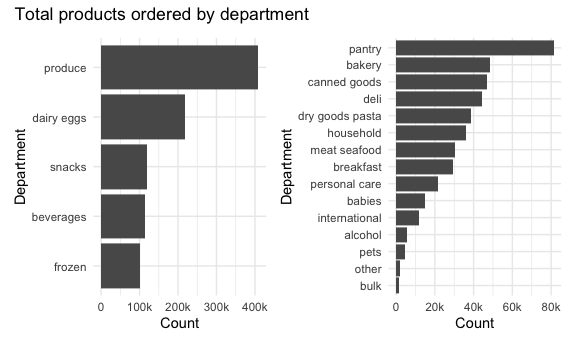
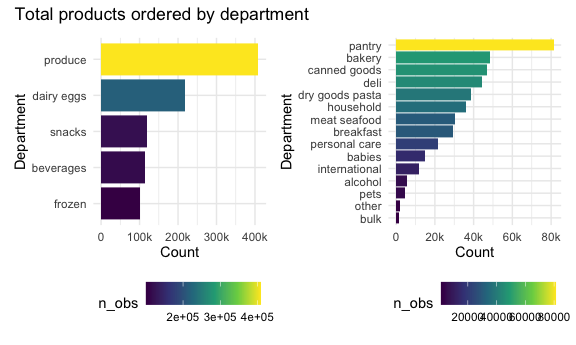
Problem 3: updating tidied data

diff --git a/p8105_hw3_mtr2143.md b/p8105_hw3_mtr2143.md
@@ -42,12 +42,16 @@ dept_products_total <-
     n_obs = n()
   ) %>% 
   arrange(desc(n_obs)) %>% 
-  filter(department != 'missing')
+  filter(department != 'missing') %>% 
+  mutate(
+    over_100k = ifelse(n_obs > 100000, 1, 0)
+  )
+
 
 dept_less_100k_plot <- 
   dept_products_total %>% 
   filter(n_obs < 100000) %>% 
-  ggplot(aes(x = reorder(department, n_obs), y = n_obs)) +
+  ggplot(aes(x = reorder(department, n_obs), y = n_obs, fill = n_obs)) +
     geom_bar(stat = "identity") + 
     xlab("Department") + ylab("Count") +
     scale_y_continuous(breaks = c(0, 20000, 40000, 60000, 80000),
@@ -57,7 +61,7 @@ dept_less_100k_plot <-
 dept_ge_100k_plot <-
   dept_products_total %>% 
   filter(n_obs >= 100000) %>% 
-  ggplot(aes(x = reorder(department, n_obs), y = n_obs)) +
+  ggplot(aes(x = reorder(department, n_obs), y = n_obs, fill = n_obs)) +
     geom_bar(stat = "identity") + 
     xlab("Department") + ylab("Count") +
     scale_y_continuous(breaks = c(0, 100000, 200000, 300000, 400000),
@@ -389,6 +393,18 @@ activity <-
 names(activity) <-
   names(activity) %>% 
   str_replace_all("activity", "min")
+
+activity <-
+    activity %>% 
+    pivot_longer(
+      cols = starts_with("min_"), 
+      names_to = "min", 
+      names_prefix = "min_",
+      values_to = "activity"
+    ) %>% 
+    mutate(
+      min = as.numeric(min)
+    )
 ```
 
 Description of data goes here
@@ -398,59 +414,59 @@ Description of data goes here
 ``` r
 tot_act_per_day <-
   activity %>% 
-    mutate(
-      total_act = rowSums(across(str_subset(colnames(activity), "^min")))
-    ) %>% 
-    select(day_id, day, total_act) 
-
+  group_by(day_id, day) %>% 
+  summarize(
+    activity = sum(activity)
+  )
+   
 tot_act_per_day %>% 
   kable(caption = "Total Activity per Day")
 ```
 
-| day\_id | day       | total\_act |
-|--------:|:----------|-----------:|
-|       1 | Friday    |  480542.62 |
-|       2 | Monday    |   78828.07 |
-|       3 | Saturday  |  376254.00 |
-|       4 | Sunday    |  631105.00 |
-|       5 | Thursday  |  355923.64 |
-|       6 | Tuesday   |  307094.24 |
-|       7 | Wednesday |  340115.01 |
-|       8 | Friday    |  568839.00 |
-|       9 | Monday    |  295431.00 |
-|      10 | Saturday  |  607175.00 |
-|      11 | Sunday    |  422018.00 |
-|      12 | Thursday  |  474048.00 |
-|      13 | Tuesday   |  423245.00 |
-|      14 | Wednesday |  440962.00 |
-|      15 | Friday    |  467420.00 |
-|      16 | Monday    |  685910.00 |
-|      17 | Saturday  |  382928.00 |
-|      18 | Sunday    |  467052.00 |
-|      19 | Thursday  |  371230.00 |
-|      20 | Tuesday   |  381507.00 |
-|      21 | Wednesday |  468869.00 |
-|      22 | Friday    |  154049.00 |
-|      23 | Monday    |  409450.00 |
-|      24 | Saturday  |    1440.00 |
-|      25 | Sunday    |  260617.00 |
-|      26 | Thursday  |  340291.00 |
-|      27 | Tuesday   |  319568.00 |
-|      28 | Wednesday |  434460.00 |
-|      29 | Friday    |  620860.00 |
-|      30 | Monday    |  389080.00 |
-|      31 | Saturday  |    1440.00 |
-|      32 | Sunday    |  138421.00 |
-|      33 | Thursday  |  549658.00 |
-|      34 | Tuesday   |  367824.00 |
-|      35 | Wednesday |  445366.00 |
+| day\_id | day       |  activity |
+|--------:|:----------|----------:|
+|       1 | Friday    | 480542.62 |
+|       2 | Monday    |  78828.07 |
+|       3 | Saturday  | 376254.00 |
+|       4 | Sunday    | 631105.00 |
+|       5 | Thursday  | 355923.64 |
+|       6 | Tuesday   | 307094.24 |
+|       7 | Wednesday | 340115.01 |
+|       8 | Friday    | 568839.00 |
+|       9 | Monday    | 295431.00 |
+|      10 | Saturday  | 607175.00 |
+|      11 | Sunday    | 422018.00 |
+|      12 | Thursday  | 474048.00 |
+|      13 | Tuesday   | 423245.00 |
+|      14 | Wednesday | 440962.00 |
+|      15 | Friday    | 467420.00 |
+|      16 | Monday    | 685910.00 |
+|      17 | Saturday  | 382928.00 |
+|      18 | Sunday    | 467052.00 |
+|      19 | Thursday  | 371230.00 |
+|      20 | Tuesday   | 381507.00 |
+|      21 | Wednesday | 468869.00 |
+|      22 | Friday    | 154049.00 |
+|      23 | Monday    | 409450.00 |
+|      24 | Saturday  |   1440.00 |
+|      25 | Sunday    | 260617.00 |
+|      26 | Thursday  | 340291.00 |
+|      27 | Tuesday   | 319568.00 |
+|      28 | Wednesday | 434460.00 |
+|      29 | Friday    | 620860.00 |
+|      30 | Monday    | 389080.00 |
+|      31 | Saturday  |   1440.00 |
+|      32 | Sunday    | 138421.00 |
+|      33 | Thursday  | 549658.00 |
+|      34 | Tuesday   | 367824.00 |
+|      35 | Wednesday | 445366.00 |
 
 Total Activity per Day
 
 ``` r
 tot_act_per_day %>% 
-  ggplot(aes(x = day, y = total_act)) +
-  geom_boxplot(aes(color = day)) +
+  ggplot(aes(x = day, y = activity, group = day)) +
+  geom_boxplot(aes(fill = day)) +
   xlab("Day of the Week") + ylab("Total Activity") +
   theme(
     legend.position = "none"
@@ -467,19 +483,7 @@ median.
 #### Make a single-panel plot that shows the 24-hour activity time courses for each day and use color to indicate day of the week. Describe in words any patterns or conclusions you can make based on this graph.
 
 ``` r
-twenty_four_hr_activity <-
-  activity %>% 
-    pivot_longer(
-      cols = starts_with("min_"), 
-      names_to = "min", 
-      names_prefix = "min_",
-      values_to = "activity"
-    ) %>% 
-    mutate(
-      min = as.numeric(min)
-    )
-
-twenty_four_hr_activity %>% 
+activity %>% 
   ggplot(aes(x = min, y = activity, group = day_id)) +
   geom_point(aes(color = day), size = .4, alpha = .5) +
   theme(
